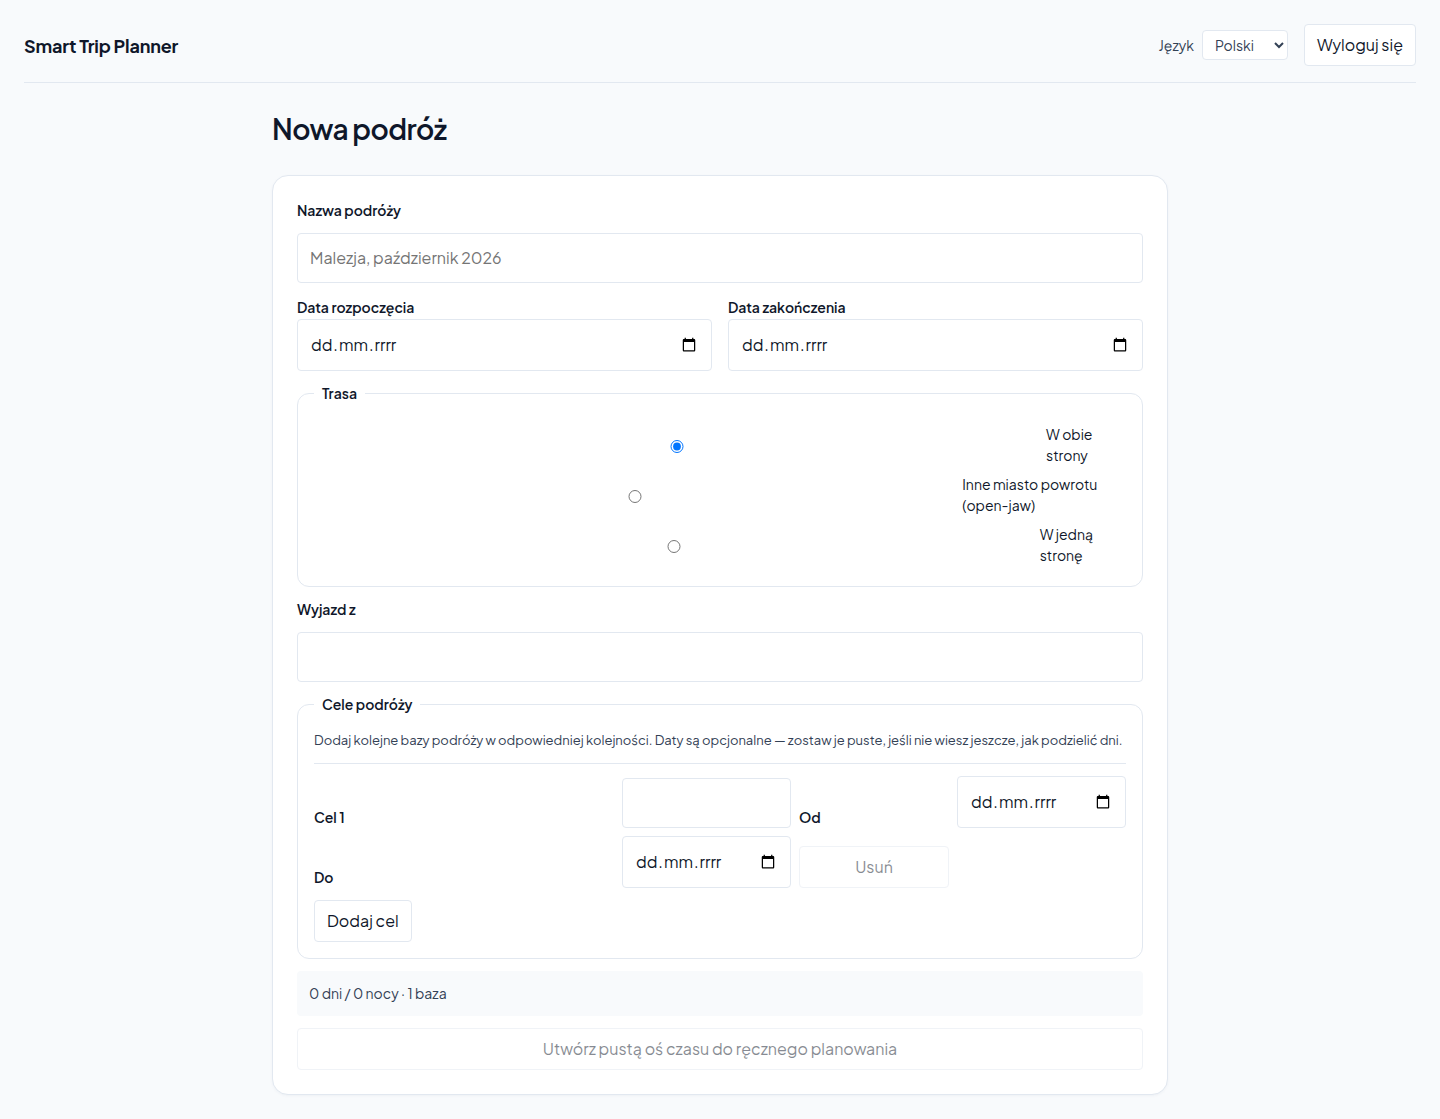
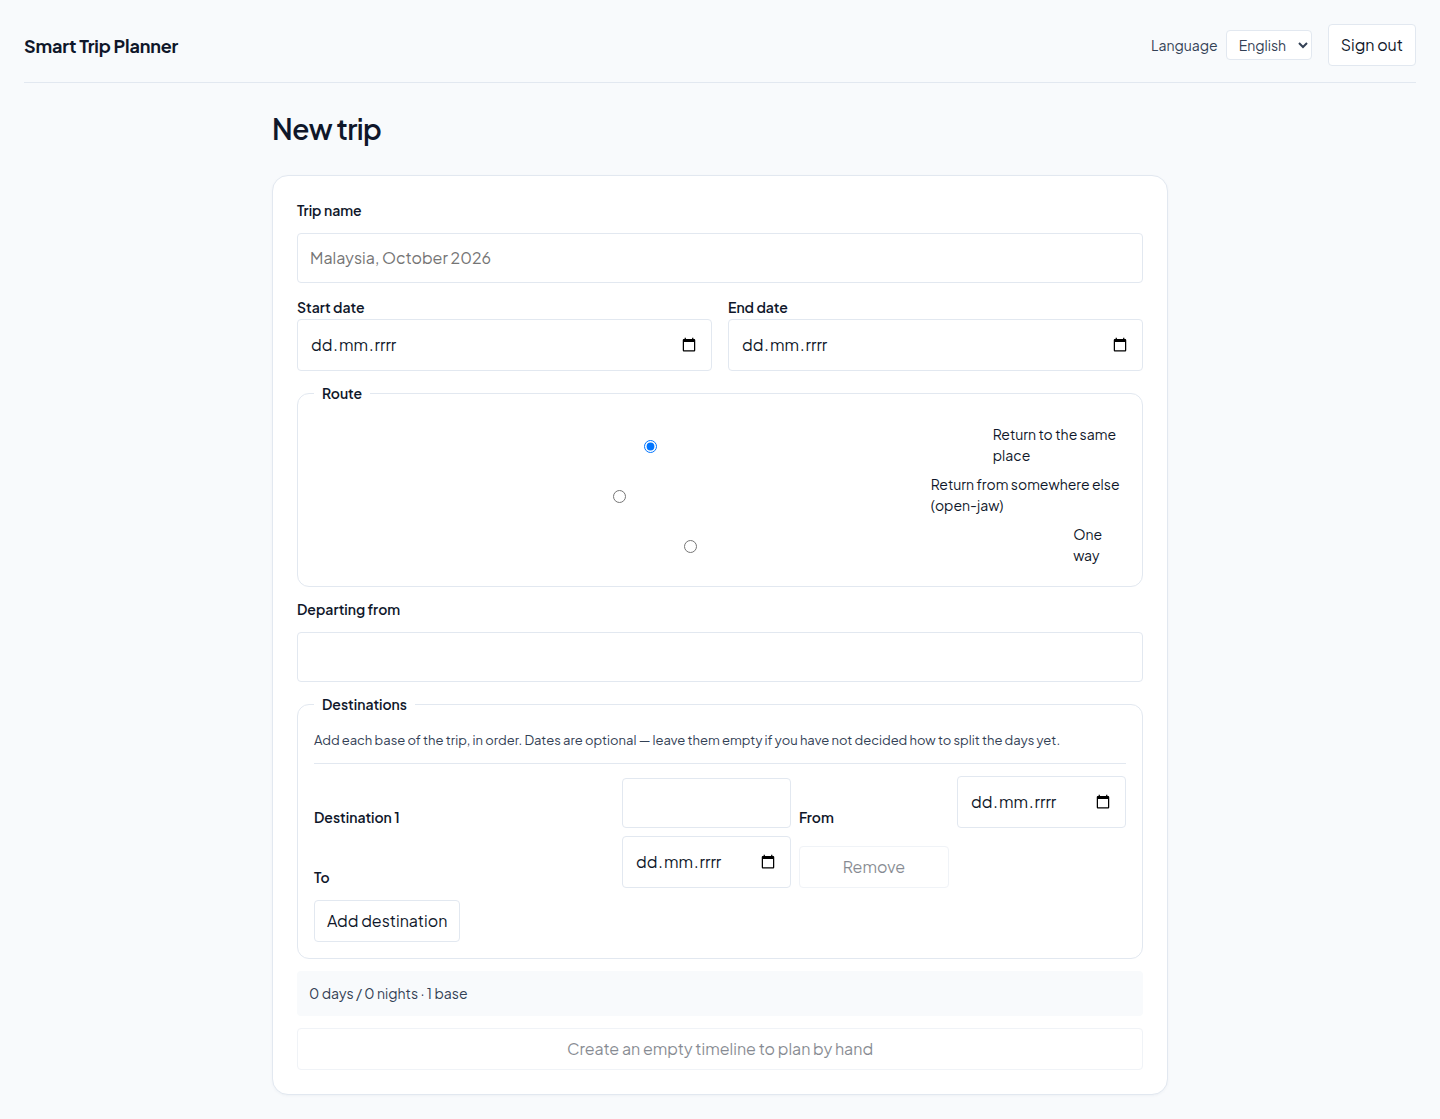
docs(runs): checkpoint 1 — steps 1.1..1.6 verified

diff --git a/.ai/runs/2026-09-06-design-system-adoption/checkpoint-1-checks.md b/.ai/runs/2026-09-06-design-system-adoption/checkpoint-1-checks.md
@@ -1,0 +1,93 @@
+# Checkpoint 1 — Phase 1 complete (Steps 1.1 – 1.6)
+
+- Checkpoint index: 1
+- Steps covered: 1.1 … 1.6
+- Commit range: `04a8ba8 … 5722517` (plan commit `a4912a8` precedes them)
+- Touched areas: `frontend/src/styles/` (new), `frontend/src/index.css`,
+  `frontend/src/main.tsx`, `frontend/package.json` + lockfile, `scripts/` (two new
+  dependency-free gates), the gate's four restatements (`.ai/agentic.config.json`,
+  the CI workflow, `AGENTS.md`, `SDLC.md`, `README.md`), `.ai/scripts/` (two new QA
+  scripts).
+
+## Checks
+
+| Check | Result | Notes |
+|---|---|---|
+| `python3 scripts/check_locales.py` | ✅ pass | `en`, `pl` in sync; no key added in Phase 1. |
+| `python3 scripts/check_css_tokens.py` | ✅ pass | **new in Step 1.3** — 244 `var()` references across 38 files all resolve against `tokens.css`. This is the guard against the silent-CSS-failure case; it runs again at Step 2.5 when the bridge is deleted. |
+| `python3 scripts/check_contrast.py` | ✅ pass | **new in Step 1.5** — 15 declared pairs, 12 body at ≥4.5:1 and 3 large/UI-boundary at ≥3:1. Full table in `contrast-table.txt`. |
+| `(cd frontend && npm run typecheck)` | ✅ pass | |
+| `(cd frontend && npm run test -- --run)` | ✅ pass | 127 passed / 127. Unchanged from `main` — Phase 1 changes no rule outside `:root` and no component. |
+| `(cd frontend && npm run build)` | ✅ pass | CSS bundle 15.13 → 18.00 kB (the token layer, inlined by Vite's `@import` handling); the font ships as separate `unicode-range`-gated woff2 subsets. |
+| `(cd backend && uv run ruff check .)` | ⏭ not run | No file under `backend/` is touched in this phase, by the spec's own non-goal. Runs in full at the final gate. |
+| `(cd backend && uv run pytest)` | ⏭ not run | Same reason. `deploy-db-1` is up, so the final gate will verify the database layer rather than skip it. |
+
+## Step review (`engine.stepReview: checkpoint`)
+
+Reviewed `origin/main..5722517` against the `om-code-review` checklist. No blocker
+and no major finding. Recorded, not fixed:
+
+- **minor** — the bridge block re-declares `--radius-md: 0.75rem`, which the
+  canonical block above it already sets to the same value. Harmless (identical
+  value, later declaration wins), deliberate (it makes the one token whose meaning
+  moves visible in the bridge's own diff), and it disappears with the bridge at
+  Step 2.5.
+- **nit** — `PLAN.md`'s Scope line still says the font ships as `wght` + `latin-ext`.
+  The variable package publishes no separate `latin-ext.css`; its single `wght.css`
+  carries every subset behind `unicode-range`. Logged in `NOTIFY.md` at Step 1.1;
+  the plan text is left as written rather than rewritten mid-run.
+
+## UI verification
+
+Ran, and it is the only check in this phase that can see anything. The environment
+is `.ai/scripts/test-env-up.sh` (the production app factory over the real build, one
+origin), seeded by the new `.ai/scripts/qa-seed.py` with the brief's Malaysia trip —
+15 days, 13 items, all three statuses, all five kinds, four deliberately empty days.
+Captured by the new `.ai/scripts/qa-screenshots.sh` through the `agent-browser`
+provider at 1440×1000.
+
+Artifacts: `checkpoint-1-artifacts/` — ten non-empty PNGs, five routes × two locales.
+
+- `01-login-{pl,en}.png`, `02-trips-{pl,en}.png`, `03-trip-create-{pl,en}.png`,
+  `04-timeline-{pl,en}.png`, `05-day-detail-{pl,en}.png`
+
+What they show, against `.ai/specs/assets/design-system-adoption/current-*.png`:
+
+- Plus Jakarta Sans renders throughout, in the family rather than a fallback —
+  the diacritics in *Przesiadka*, *śniadanie*, *bagaż rejestrowany* and
+  *Pamiątki i pakowanie* keep their optical balance at 400 and 700.
+- The palette is the design's: the `#0F3F6D` primary on links and controls in
+  place of the skeleton's invented `#2f6f5e` green, the `#F8FAFC` canvas, `#E2E8F0`
+  hairlines.
+- The corrected status chips read as designed — *Gotowe* on `#ECFDF5`/`#047857`,
+  *Do zarezerwowania* on `#FFFBEB`/`#B45309`, *Do zaplanowania* on `#F1F5F9`.
+- **No layout movement**, which is the whole point of the bridge: every element
+  sits where `current-*.png` has it. The component recipes and the grid are
+  Phases 2 and 3.
+
+### One evidence defect found and fixed inside this checkpoint
+
+The first capture pass produced byte-identical PNGs for `pl` and `en` on every
+authenticated screen. The cause is a real product behaviour rather than a script
+bug: signed in, the owner's **stored** locale wins over the one chosen on `/login`,
+because R01 makes the choice follow the owner rather than the browser. The capture
+script now switches locale a second time through the header's own switch after
+signing in. Re-captured; the ten files are now genuinely five routes in two
+languages. A screenshot set that silently photographs one locale twice is worse
+than none, so this is recorded rather than quietly corrected.
+
+### An observation about the API, out of this spec's scope
+
+`POST /api/v1/auth/login` answers `204` with its cookies **before** its request
+transaction commits: FastAPI exits a `yield` dependency — here `get_db`, which owns
+the commit — after the response has been sent. A client fast enough to reuse the
+cookie inside that window is answered `401` by a server that has already accepted
+it. A browser never is; two dependency-free scripts in a row were, every time.
+`qa-seed.py` polls until the session is visible rather than sleeping blind. This
+touches no file this spec may change (`backend/` is an explicit non-goal), so it is
+recorded here and surfaced in the PR summary rather than fixed in this run.
+
+## Verdict
+
+✅ Checkpoint 1 passes. Phase 1 is complete and the application renders in the
+design's typeface and palette with its layout untouched. Next: Step 2.1.

diff --git a/.ai/runs/2026-09-06-design-system-adoption/HANDOFF.md b/.ai/runs/2026-09-06-design-system-adoption/HANDOFF.md
@@ -1,23 +1,32 @@
 # Handoff — 2026-09-06-design-system-adoption
 
-**Last updated:** 2026-09-06T13:02:02Z
+**Last updated:** 2026-09-06T13:33:06Z
 **Branch:** `feat/design-system-adoption`
-**PR:** not yet opened
-**Current phase/step:** Phase 1 Step 1.1
-**Last commit:** — (run folder commit pending)
+**PR:** https://github.com/7bc-mkl/trip_planner/pull/11 (draft, claimed)
+**Current phase/step:** Phase 2 Step 2.1
+**Last commit:** `5722517` — test(qa): capture the phase-1 screenshot set in both locales
 
 ## What just happened
 
-- `om-auto-implement-spec` resolved `.ai/specs/2026-09-06-design-system-adoption.md` (merged on
-  `main` as PR #10, no open spec PR, no existing implementation PR) and invoked `om-auto-create-pr`,
-  which routed to `om-auto-create-pr-loop` because the spec's Implementation Plan carries 33 Steps
-  against a threshold of 20.
-- The run folder was drafted: 33 Steps across six phases, 1:1 with the spec's own numbering.
+- **Phase 1 is complete** (Steps 1.1–1.6) and checkpoint 1 passed: Plus Jakarta Sans is
+  self-hosted and rendering, `styles/tokens.css` carries the whole design contract with both
+  `DESIGN.md` frontmatter/prose conflicts resolved to the prose, `styles/base.css` holds the
+  reset and the type-bound headings, and the compatibility bridge repoints all 798 skeleton
+  lines at the new palette with no layout movement.
+- Two dependency-free gates now run in the validation sequence and are wired into CI,
+  `AGENTS.md`, `SDLC.md` and `README.md`: `scripts/check_css_tokens.py` (every `var()`
+  resolves) and `scripts/check_contrast.py` (15 declared pairs, WCAG AA).
+- One design value was corrected rather than shipped: `--field-border: #84919F` replaces
+  `DESIGN.md`'s `#CBD5E1` for the resting input boundary (1.48:1 → 3.21:1, WCAG 1.4.11).
+  `--hairline-strong` keeps the design's value for decorative use.
+- The QA machinery the per-phase screenshot sets need now exists: `.ai/scripts/qa-seed.py`
+  and `.ai/scripts/qa-screenshots.sh`.
 
 ## Next concrete action
 
-- Step 1.1 — add `@fontsource-variable/plus-jakarta-sans` and import `wght.css` + `latin-ext.css`
-  from `frontend/src/main.tsx`.
+- Step 2.1 — split `components.css` out of `index.css` and rewrite the button recipes
+  (primary, deep, ghost, danger, danger-solid; no accent recipe). First member of group `B`,
+  which runs 2.1–2.4 under one executor.
 
 ## Blockers / open questions
 
@@ -25,11 +34,12 @@
 
 ## Environment caveats
 
-- Dev runtime runnable: yes — `deploy/compose.dev.yml`'s `db` service is already up (`deploy-db-1`),
-  so the backend `pytest` leg verifies the database layer rather than skipping.
-- Browser / UI checks: enabled — `agent-browser` v0.34.0 is cached at
-  `~/.cache/agent-tools/agent-browser/v0.34.0` per `.ai/browsers/agent-browser.md`.
-- Database/migration state: clean — this spec changes no backend file and adds no migration.
+- Dev runtime runnable: yes — `.ai/scripts/test-env-up.sh` is up; the descriptor is at
+  `.ai/qa/test-env.json`. Re-run it after each phase so the fingerprint picks up the new build.
+- Browser / UI checks: enabled — `agent-browser` v0.34.0. **Export `TMPDIR=/tmp` before
+  launching it**: Chrome refuses to start when its singleton socket path is long, and the agent
+  worktree's `TMPDIR` is exactly that. `qa-screenshots.sh` already does this.
+- Database/migration state: clean — no backend file is touched and no migration exists.
 
 ## Worktree
 

diff --git a/.ai/runs/2026-09-06-design-system-adoption/NOTIFY.md b/.ai/runs/2026-09-06-design-system-adoption/NOTIFY.md
@@ -31,3 +31,11 @@
 - `scripts/check_contrast.py`'s pair table now checks `--field-border` on `--surface` (large, 3:1) in place of `--hairline-strong` on `--surface`. All 15 declared pairs pass; table saved to `contrast-table.txt` in this run folder and committed.
 - Gate wiring landed in the same commit: `.ai/agentic.config.json` (`check_contrast.py` right after `check_css_tokens.py`), `.github/workflows/validation-gate.yml`, `AGENTS.md`, `SDLC.md`, `README.md` — the command count is now "eight" everywhere it was "seven".
 - `PLAN.md` row `1.5` flipped to `done`, `Commit` cell left as the literal word `pending`.
+
+## 2026-09-06T13:33:06Z — checkpoint 1 (Steps 1.1–1.6)
+- Phase 1 complete. Gate green: locales, css-tokens (244 refs), contrast (15/15 pairs), typecheck, 127 tests, build. Backend commands not run — no backend file is touched; they run in full at the final gate.
+- Step review (`checkpoint` mode) over `origin/main..5722517`: no blocker, no major. One minor (the bridge re-declares `--radius-md` at the same value, deliberate and deleted at 2.5) and one nit (PLAN's Scope line still says `wght` + `latin-ext`), both recorded in `checkpoint-1-checks.md` and deferred to the final review.
+- UI verification ran: ten PNGs, five routes × two locales, in `checkpoint-1-artifacts/`. New palette and typeface everywhere, no layout movement.
+- **Evidence defect found and fixed in-checkpoint:** the first pass photographed one locale twice, because signed in the owner's stored locale wins over the one chosen on `/login` (R01). The capture script now switches locale again through the header switch after sign-in; the set was re-captured.
+- **Observation, out of scope:** `POST /auth/login` answers 204 before its transaction commits (FastAPI exits the `get_db` yield dependency after the response is sent), so a fast client is answered 401 by a server that already accepted it. `qa-seed.py` polls for session visibility. `backend/` is an explicit non-goal of this spec, so this is surfaced on the PR rather than fixed here.
+- Decision: executors write the literal `pending` into the Tasks table's `Commit` cell and the main session fills the real short SHA at each checkpoint — writing a commit's own SHA into itself is a regress, and amend-chasing produced one wrong cell at Step 1.1 before the convention was set.

diff --git a/.ai/runs/2026-09-06-design-system-adoption/PLAN.md b/.ai/runs/2026-09-06-design-system-adoption/PLAN.md
@@ -14,12 +14,12 @@
 
 | Phase | Step | Title | Exec | Status | Commit |
 |-------|------|-------|------|--------|--------|
-| 1 | 1.1 | Load Plus Jakarta Sans (spec step 1) | dispatch:cheap | done | e60b249 |
-| 1 | 1.2 | Transcribe the token layer into `styles/tokens.css` (spec step 2) | group:A | done | pending |
-| 1 | 1.3 | Add the compatibility bridge and the token-completeness check (spec step 3) | group:A | done | pending |
-| 1 | 1.4 | Split the base layer into `styles/base.css` (spec step 4) | dispatch | done | pending |
-| 1 | 1.5 | Contrast script over the token file (spec step 5) | dispatch:cheap | done | pending |
-| 1 | 1.6 | Phase-1 screenshot set — five routes × two locales (spec step 6) | inline | done | pending |
+| 1 | 1.1 | Load Plus Jakarta Sans (spec step 1) | dispatch:cheap | done | 04a8ba8 |
+| 1 | 1.2 | Transcribe the token layer into `styles/tokens.css` (spec step 2) | group:A | done | 57c3081 |
+| 1 | 1.3 | Add the compatibility bridge and the token-completeness check (spec step 3) | group:A | done | 53898f6 |
+| 1 | 1.4 | Split the base layer into `styles/base.css` (spec step 4) | dispatch | done | 8fe1d89 |
+| 1 | 1.5 | Contrast script over the token file (spec step 5) | dispatch:cheap | done | ec3851b |
+| 1 | 1.6 | Phase-1 screenshot set — five routes × two locales (spec step 6) | inline | done | 5722517 |
 | 2 | 2.1 | Split `components.css` and rewrite the button recipes (spec step 7) | group:B | todo | — |
 | 2 | 2.2 | Rewrite the input, select, textarea and date recipes (spec step 8) | group:B | todo | — |
 | 2 | 2.3 | Rewrite the status chip recipes and add the dot (spec step 9) | group:B | todo | — |
